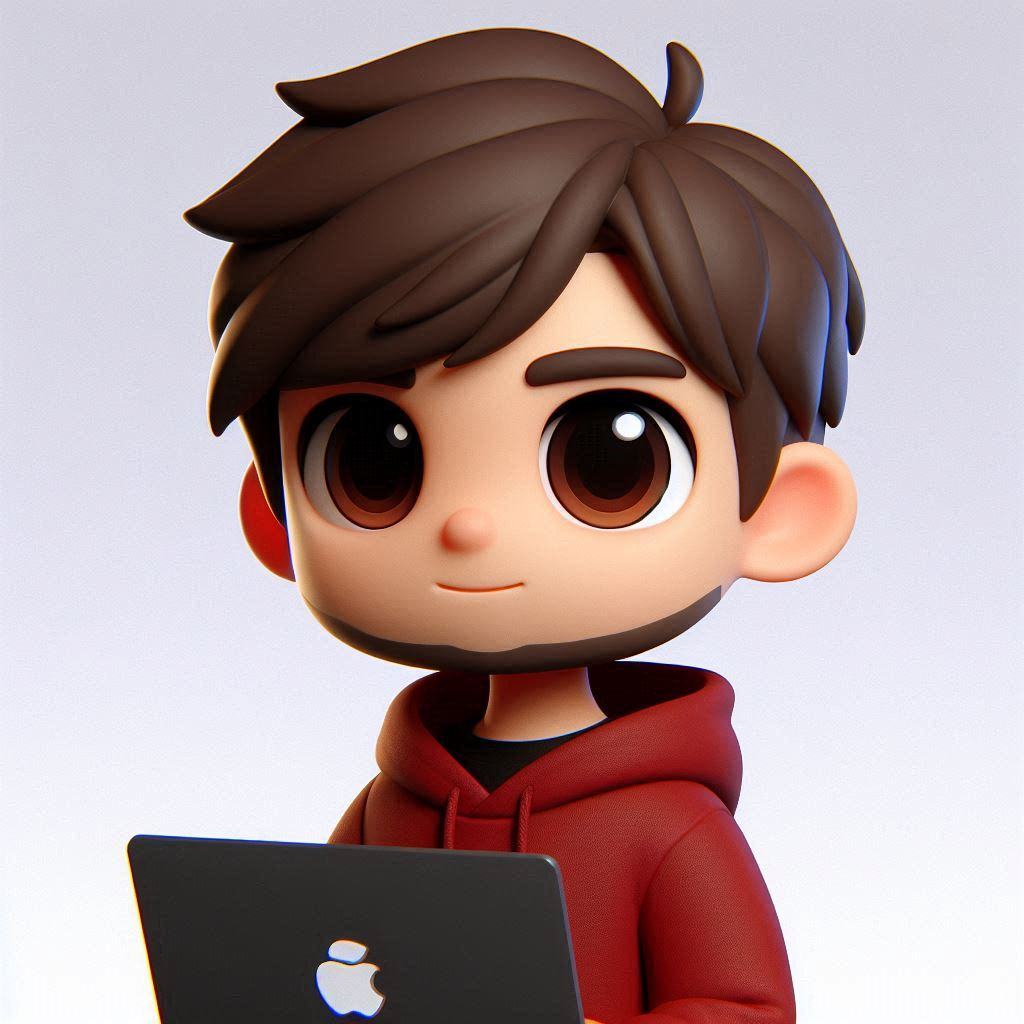
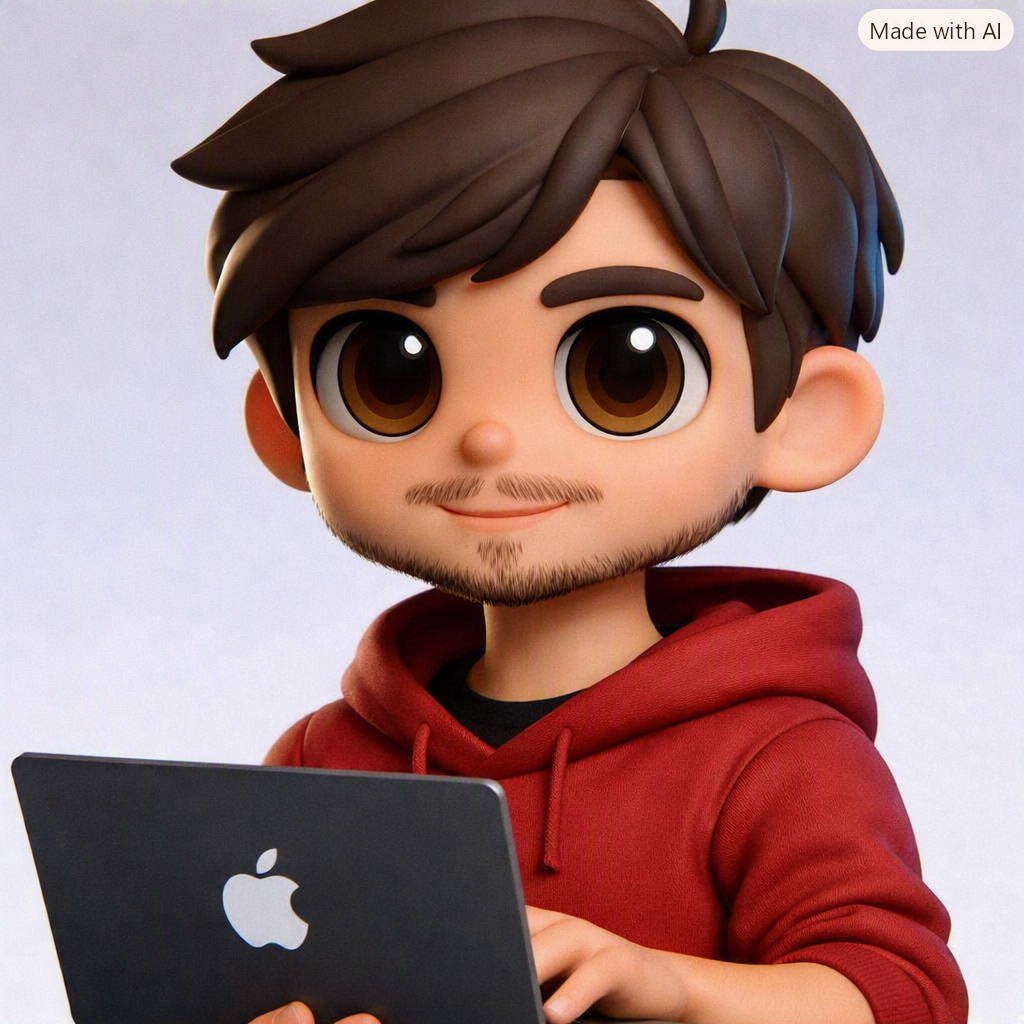
fixed navbarfor mobile mode & commented out linkedin section

diff --git a/js/main.js b/js/main.js
@@ -155,3 +155,47 @@ document.addEventListener("DOMContentLoaded", function () {
     });
 
 });
+
+// =========================================================
+// MOBILE NAVBAR - SMOOTH COLLAPSE
+// =========================================================
+
+// Close mobile navbar after switching theme
+document.getElementById("theme-toggle").addEventListener("change", function () {
+
+    if (window.innerWidth < 992) {
+        closeMobileNavbar();
+    }
+
+});
+
+
+// Close mobile navbar when a navigation link is clicked
+document.querySelectorAll(".navbar-nav .nav-link").forEach(function (link) {
+
+    link.addEventListener("click", function () {
+
+        if (window.innerWidth < 992) {
+            closeMobileNavbar();
+        }
+
+    });
+
+});
+
+
+// Smoothly close mobile navbar
+function closeMobileNavbar() {
+
+    const navbarCollapse = document.querySelector(".navbar-collapse");
+
+    if (navbarCollapse && navbarCollapse.classList.contains("show")) {
+
+        // Add smooth closing transition
+        navbarCollapse.style.transition = "height 0.35s ease";
+
+        $(navbarCollapse).collapse("hide");
+
+    }
+
+}

diff --git a/index.html b/index.html
@@ -69,7 +69,7 @@
             <div class="row align-items-center">
 
                 <div class="col-lg-5 px-5 pl-lg-0 pb-5 pb-lg-0">
-                    <img class="img-fluid w-100 rounded-circle shadow-sm" src="img/prof1.png"
+                    <img class="img-fluid w-100 rounded-circle shadow-sm" src="img/prof.png"
                         alt="Tushar Choudhary">
                 </div>
 
@@ -643,7 +643,7 @@
                            aria-label="GitHub">
                             <i class="fab fa-github"></i>
                         </a>
-
+                       <!--
                         <a class="btn btn-light btn-social"
                            href="https://www.linkedin.com/"
                            target="_blank"
@@ -651,7 +651,7 @@
                            aria-label="LinkedIn">
                             <i class="fab fa-linkedin-in"></i>
                         </a>
-
+                    -->
                     </div>
 
                 </div>

diff --git a/css/custom.css b/css/custom.css
@@ -470,3 +470,16 @@ select,
     }
 
 }
+/* =========================================================
+   DARK MODE - MOBILE NAVBAR MENU ICON
+   ========================================================= */
+   @media (max-width: 991px) {
+    body.dark-mode .navbar-light .navbar-toggler {
+        color: #ffffff !important;
+        border-color: transparent !important;
+    }
+
+    body.dark-mode .navbar-light .navbar-toggler-icon {
+        filter: invert(1);
+    }
+}
